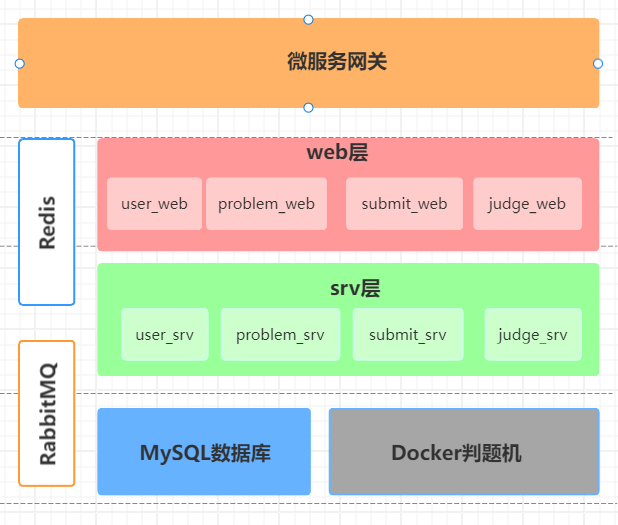
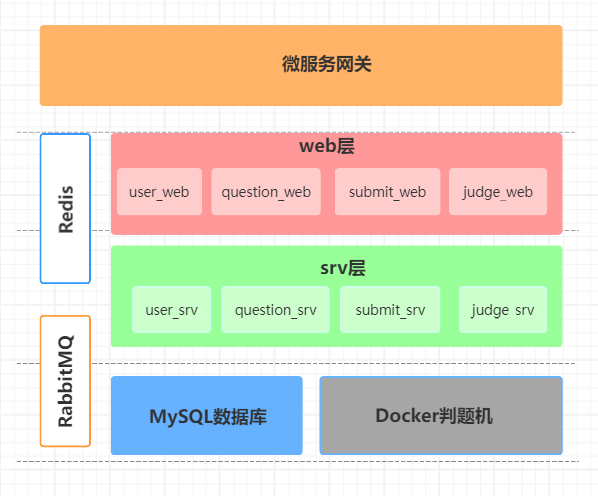
完善文档

Changed region(s): [[0.0, 0.2419, 0.9933, 0.9677], [0.0301, 0.0302, 0.9933, 0.2117], [0.4515, 0.0907, 0.6321, 0.1512]]

diff --git a/build/introduction.md b/build/introduction.md
@@ -1,0 +1,75 @@
+# 启动项目demo
+## 1.环境搭建
+
+### mysql安装：
+```shell
+docker run \
+-p 33061:3306  \
+--restart=always \
+--name mysql-5.7-1 \
+--privileged=true  \
+-v /root/mysql-5.7-1/conf:/etc/mysql/conf.d \
+-v /root/mysql-5.7-1/data:/var/lib/mysql \
+-v /root/mysql-5.7-1/log:/var/log/mysql \
+-v /root/mysql-5.7-1/mysql-files:/var/lib/mysql-files \
+-e MYSQL_ROOT_PASSWORD=admin123 \
+-d mysql:5.7 \
+--character-set-server=utf8mb4 --collation-server=utf8mb4_unicode_ci
+```
+
+### consul安装：
+```shell
+docker run -d -p 8500:8500 -p 8300:8300 -p 8301:8301 -p 8302:8302 -p 8600:8600/udp consul consul agent -dev -client=0.0.0.0
+```
+
+### redis安装：
+```shell
+docker run -p 6379:6379 -d redis:latest redis-server
+```
+
+## 2.在MySQL中创建数据库
+
+以交互方式进入容器，启动shell
+```shell
+docker exec -it mysql-5.7-1 /bin/bash
+```
+登录mysql
+```shell
+mysql -uroot -padmin123
+```
+创建数据库
+```mysql
+CREATE DATABASE `go-oj_user_srv` DEFAULT CHARACTER SET utf8mb4
+CREATE DATABASE `go-oj_question_srv` DEFAULT CHARACTER SET utf8mb4
+```
+
+## 3.向consul写入远程配置并建表
+```shell
+cd user_srv
+go run test/build/main.go
+```
+```shell
+cd user_web
+go run test/build/main.go
+```
+
+```shell
+cd question_srv
+go run test/build/main.go
+```
+
+## 4.依次启动srv服务与web服务
+```shell
+cd user_srv
+go run main.go
+```
+```shell
+cd user_web
+go run main.go
+```
+
+```shell
+cd question_srv
+go run main.go
+```
+

diff --git a/README.md b/README.md
@@ -1,5 +1,5 @@
 # go-oj
-这是一个使用go语言编写的在线oj平台
+这是一个使用go语言编写的在线oj平台（后端部分）
 
 
 ## 主要技术栈
@@ -17,6 +17,12 @@
 管理员 添加普通用户、修改用户的信息、查看用户列表
 
 > 使用Validator进行参数的校验，JWT控制登录状态
-
+### 题目模块
+正在进行中
 ## 预想架构
-![img](pics/img.png)
+
+![架构图](pics/img.png)
+
+
+## 快速启动demo
+[快速启动](build/introduction.md)
